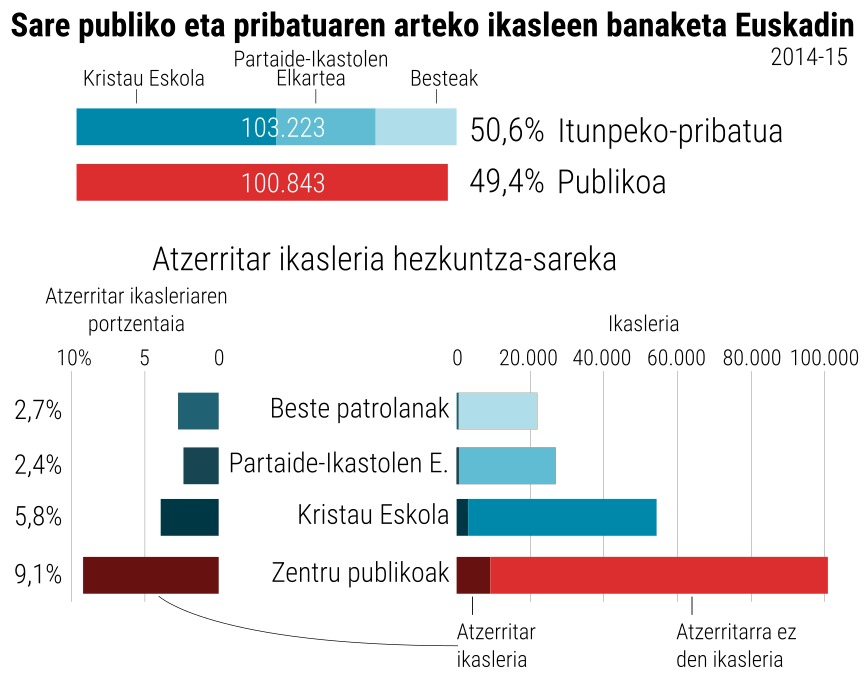
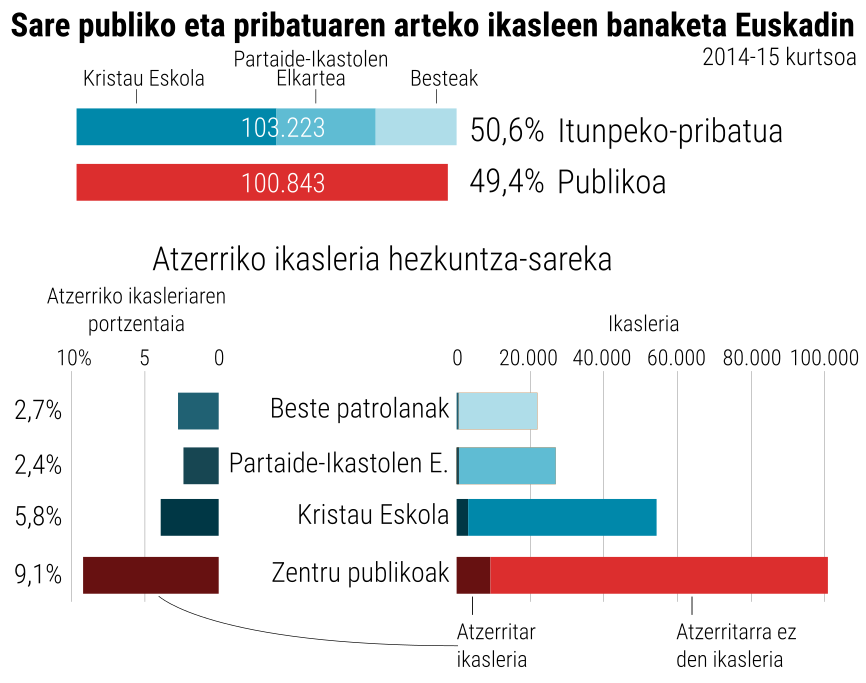
corrige typos en euskera, añade colaboradores, substituye por mapas de Carto en euskera

Changed region(s): [[0.2494, 0.369, 0.7171, 0.3997], [0.0624, 0.3997, 0.2806, 0.4612], [0.8106, 0.0615, 0.9977, 0.0922]]

diff --git a/eus.html b/eus.html
@@ -5,7 +5,7 @@
 <meta charset="UTF-8" />
 <meta http-equiv="X-UA-Compatible" content="IE=edge">
 <meta name="viewport" content="width=device-width, initial-scale=1">
-<title>Euskadiko hezkuntza sistemaren kohesio eta berdintadunaren inguruko hausnarketai</title>
+<title>Euskadiko hezkuntza sistemaren kohesio eta berdintasunaren inguruko hausnarketai</title>
 
 <!-- source code based on https://bl.ocks.org/jasondavies/1341281 -->
 <meta charset="utf-8">
@@ -24,10 +24,10 @@
 
 <!-- generic meta -->
 <meta content="Montera34" name="author" />
-<meta content="Euskadiko hezkuntza sistemaren kohesio eta berdintadunaren inguruko hausnarketai" name="description" />
+<meta content="Euskadiko hezkuntza sistemaren kohesio eta berdintasunaren inguruko hausnarketai" name="description" />
 <meta content="hezkuntza, pribatua, itunpekoa, atzerritarrak" name="keywords" />
 <!-- facebook meta -->
-<meta property="og:title" content="Euskadiko hezkuntza sistemaren kohesio eta berdintadunaren inguruko hausnarketai" />
+<meta property="og:title" content="Euskadiko hezkuntza sistemaren kohesio eta berdintasunaren inguruko hausnarketai" />
 <meta property="og:type" content="website" />
 <meta property="og:description" content="Eukadiko ikastetxe publiko eta pribatuen arteko segregazioaren hausnarketa grafikoa." />
 <meta name="og:image" content="https://lab.montera34.com/segregacionescolar/images/segregacion-publico-privada-para-ilp.png" />
@@ -36,7 +36,7 @@
 <meta name="twitter:card" content="summary_large_image" />
 <meta name="twitter:site" content="@montera34">
 <meta property="twitter:site:id" content="137677992" />
-<meta name="twitter:title" content="Euskadiko hezkuntza sistemaren kohesio eta berdintadunaren inguruko hausnarketai" />
+<meta name="twitter:title" content="Euskadiko hezkuntza sistemaren kohesio eta berdintasunaren inguruko hausnarketai" />
 <meta name="twitter:description" content="Eukadiko ikastetxe publiko eta pribatuen arteko segregazioaren hausnarketa grafikoa." />
 <meta name="twitter:creator" content="@montera34">
 <meta name="twitter:image" content="https://lab.montera34.com/segregacionescolar/images/segregacion-publico-privada-para-ilp.png" />
@@ -81,7 +81,7 @@
 	<div class="bginner container-fluid">
 		<div class="bgcontainer">
 			<header class="col-md-6">
-				<h1>Euskadiko hezkuntza sistemaren kohesio eta berdintadunaren inguruko hausnarketa</h1>
+				<h1>Euskadiko hezkuntza sistemaren kohesio eta berdintasunaren inguruko hausnarketa</h1>
 			</header>
 			<div class="clearfix"></div>
 			<div class="col-md-4">
@@ -93,7 +93,7 @@
 				<p><a class="vis-btn  btn-danger" href="https://www.ilpeskolainklusiboa.eus/">LHE sinatu</a></p>
 			</div>
 			<div class="col-md-3">
-				<p class="desc">Iradokizunik, komentariorik, proposamenik, zuzenletarik, datu gehiago al duzu?</p>
+				<p class="desc">Iradokizunik, komentariorik, proposamenik, zuzenketarik, datu gehiago al duzu?</p>
 				<p><a class="vis-btn" href="https://montera34.com/contacto">Kontaktatu</a></p>
 			</div>
 			<div class="col-md-2">
@@ -134,21 +134,21 @@
 		<div class="clearfix"></div>
 		<header id="sobre" class="row vis-head">
 			<div class="col-md-6 col-md-offset-3">
-				<h1>Euskadiko hezkuntza sistemaren kohesio eta berdintadunaren inguruko hausnarketa</h1>
+				<h1>Euskadiko hezkuntza sistemaren kohesio eta berdintsdunaren inguruko hausnarketa</h1>
 			</div>
 		</header>
 		<div class="row vis-body">
 			<div class="col-md-6 col-md-offset-3">
-				<h3>Euskal hezkuntza sisteman kohesioa eta berdintasuna hobeteko HLE</h3>
+				<h3>Euskal hezkuntza sisteman kohesioa eta berdintasuna hobetzeko HLE</h3>
 				<p>Euskadin Europako sare pribatu-itunpeko hedatuenetariko bat daukagu, ikasleriaren %50ari arreta emanez. Halere, egoera honek ez du ondoegi adierazten zer ezberdintasunak dauden sare bakoitzeko ikasleen artean.</p>
 				<p><a href="https://www.ilpeskolainklusiboa.eus/">10.000 sinadura biltzeko kanpaina</a> legebiltzarrean eztabaidatu dezaten.</p>
 				<h2>Bistaratzeen egileak</h2>
-				<p>Montera34k Euskadiko sare publiko eta pribatuko hezkuntza segregazioa ondorengo grafiko eta mapen bidez aztertzen du. Bistaratze hauek Eskola Inklusiboa Legegintza Herri Ekimenak erabiliko ditu.</p>
+				<p>Montera34k Euskadiko sare publiko eta pribatuko hezkuntza segregazioa ondorengo grafiko eta mapen bidez aztertzen du. Bistaratze hauek Eskola Inklusiboa Legegintza Herri Ekimenak erabiliko ditu. Ángel Martinez de Antoñana eta Sabin Zubiri-ren laguntzarekin.</p>
 				<h2>Datuen iturria</h2>
 				<p>Euskadiko sare publiko eta pribatu-kontzertatuko ikastetxeen arteko desberdintasuna aztertzeko, Euskadiko Eskola Kontseiluak argitaratutako <a href="http://www.consejoescolardeeuskadi.hezkuntza.net/c/document_library/get_file?uuid=ea15c830-b320-4199-8a35-424f3060533e&groupId=17937">'Hezkuntza Euskadin 2013-2015'</a> txostenak emandako datuetan oinarritu gara.
 Ikasle etorkinen eskola eremuak, eskola materialarengatik eta jantoki bekak jasotzen dituzten ikasle kopuruak hartuko ditugu haintzat sareen arteko ezberdintasunak ulertzeko.</p>
 				<p>Datuak erabili ahal izateko, PDF formatuan gordetako taulak bererabiltzea uzten zigun formatura pasa behar izan ditugu. Mapak eraikitzeko eskola eremuen inguruak sortu behar izan ditugu, Euskadiko datu base irekietan ez baitzeuden eskuragarri.</p>
-				<p>Honela, txosten honek funtzio bikoitza beteko du: ezberdintasun datuak aztertu eta beste edonork erabil ditzan libre utzi. <a href="https://github.com/montera34/segregacion/tree/master/data">Datu gordinak gordailu honetan deskarga daitezke</a>.</p>
+				<p>Honela, txosten honek funtzio bikoitza beteko du: ezberdintasun datuak aztertu eta beste edonork erabil ditzan libre utzi. <a href="https://github.com/montera34/segregacion/tree/master/data">Datu gordinak gordailu honetatik deskarga daitezke</a>.</p>
 			</div>
 		</div>
 	</section>
@@ -164,7 +164,7 @@ Ikasle etorkinen eskola eremuak, eskola materialarengatik eta jantoki bekak jaso
 			</div>
 			<div class="clearfix"></div>
 			<div class="col-md-6 col-md-offset-3">
-				<p>Espainiar estatuan nabarmentzekoa da Europako itunpeko hezkuntza sare haundienetariko bat dagoela.</p>
+				<p>Europako itunpeko hezkuntza sare handienetariko bat estatu espainarrean dagoela nabarmentzekoa da.</p>
 			</div>
 			<div class="clearfix"></div>
 			<div class="col-md-6">
@@ -184,11 +184,11 @@ Ikasle etorkinen eskola eremuak, eskola materialarengatik eta jantoki bekak jaso
 				<span class="label label-default localizacion">Espainiar testuingurua</span>
 			</div>
 			<div class="col-md-6 col-md-offset-3">
-				<h1>Espainiar testuingua: ikasle banaketa sareetan, publikoa, itunpekoa eta pribatua erkidegoka <a href="#espana">#</a></h1>
+				<h1>Espainiar testuingurua: ikasle banaketa sareetan, publikoa, itunpekoa eta pribatua erkidegoka <a href="#espana">#</a></h1>
 			</div>
 			<div class="clearfix"></div>
 			<div class="col-md-6 col-md-offset-3">
-				<p>Euskadin nabarmentzekoa da Espainiar estatuko itunpeko hezkuntza sare haundiena dagoela.</p>
+				<p>Espainako estatuko itunpeko hezkuntza sare handiena Euskadin dagoela nabarmentzekoa da.</p>
 				<iframe id="datawrapper-chart-0Og02" src="//datawrapper.dwcdn.net/0Og02/2/" scrolling="no" frameborder="0" allowtransparency="true" allowfullscreen="allowfullscreen" webkitallowfullscreen="webkitallowfullscreen" mozallowfullscreen="mozallowfullscreen" oallowfullscreen="oallowfullscreen" msallowfullscreen="msallowfullscreen" style="width: 0; min-width: 100% !important;" height="602"></iframe><script type="text/javascript">if("undefined"==typeof window.datawrapper)window.datawrapper={};window.datawrapper["0Og02"]={},window.datawrapper["0Og02"].embedDeltas={"100":770,"200":686,"300":630,"400":602,"500":602,"600":602,"700":574,"800":574,"900":574,"1000":574},window.datawrapper["0Og02"].iframe=document.getElementById("datawrapper-chart-0Og02"),window.datawrapper["0Og02"].iframe.style.height=window.datawrapper["0Og02"].embedDeltas[Math.min(1e3,Math.max(100*Math.floor(window.datawrapper["0Og02"].iframe.offsetWidth/100),100))]+"px",window.addEventListener("message",function(a){if("undefined"!=typeof a.data["datawrapper-height"])for(var b in a.data["datawrapper-height"])if("0Og02"==b)window.datawrapper["0Og02"].iframe.style.height=a.data["datawrapper-height"][b]+"px"});</script>
 					<p>Espainiako hezkuntza sareak. Datuen iturria: Datos y cifras 2016. Hezkuntza Ministerioa. <a href="https://www.mecd.gob.es/servicios-al-ciudadano-mecd/dms/mecd/servicios-al-ciudadano-mecd/estadisticas/educacion/indicadores-publicaciones-sintesis/datos-cifras/Datosycifras1617esp.pdf">2017/18 urtera eguneratutako datuak</a>.</p>
 			</div>
@@ -208,7 +208,7 @@ Ikasle etorkinen eskola eremuak, eskola materialarengatik eta jantoki bekak jaso
 				<p>Euskadiko ikasleria sare publikoan (100.843) eta pribatua-itunpekoan (103.223) erdi bana banatzen dira. Azken honek Kristau Eskolak, ikastetxe erlijioso kristauen patronalak, 54.318 ikaslek osatutakoa, eta Partaide-Ikastolen Elkarteak, ikastolen elkargoak, 26.939 ikasle dituena, osatzen dute; gainontzekoa, beste patronalek jasotzen dute (21.966).</p>
 				<figure>
 					<a href="images/segregacion-redes-educativas-euskadi-barras_eu.png"><img class="img-responsive" src="images/segregacion-redes-educativas-euskadi-barras_eu.png" /></a>
-					<figcaption>Oinarrizko hezkuntzako (Lehen hezkuntza eta DBH) atzerriko ikasleen ehunekoa hezkuntza sareen arabera. 2014-15 kurtsoa.</figcaption>
+					<figcaption>Oinarrizko Hezkuntzako (Lehen hezkuntza eta DBH) atzerriko ikasleen ehunekoa hezkuntza sareen arabera. 2014-15 kurtsoa.</figcaption>
 				</figure>
 				<a class="btn btn-default" role="button" data-toggle="collapse" href="#tableredes" aria-expanded="false" aria-controls="collapseExample">
 					Ikusi datu guztiak dauzkan taula <span class="glyphicon glyphicon-triangle-bottom" aria-hidden="true"></span>
@@ -555,8 +555,8 @@ total alumnado
 			</div>
 			<div class="clearfix"></div>
 			<div class="col-md-12">
-				<iframe width="100%" height="820" frameborder="0" src="https://numeroteca.carto.com/builder/2389a047-c81e-4a9e-adec-7df4367a7982/embed" allowfullscreen webkitallowfullscreen mozallowfullscreen oallowfullscreen msallowfullscreen></iframe>
-				<p><a href="https://numeroteca.carto.com/builder/2389a047-c81e-4a9e-adec-7df4367a7982/embed">Ikusi mapa pantaila osorik.</a></p>
+				<iframe width="100%" height="820" frameborder="0" src="https://numeroteca.carto.com/builder/1392c302-1961-498a-8649-d7e89a346079/embed" allowfullscreen webkitallowfullscreen mozallowfullscreen oallowfullscreen msallowfullscreen></iframe>
+				<p><a href="https://numeroteca.carto.com/builder/1392c302-1961-498a-8649-d7e89a346079/embed">Ikusi mapa pantaila osorik.</a></p>
 			</div>
 			<div class="clearfix"></div>
 			<div class="col-md-6 col-md-offset-3">
@@ -584,7 +584,8 @@ total alumnado
 			</div>
 			<div class="clearfix"></div>
 			<div class="col-md-12">
-				<iframe width="100%" height="820" frameborder="0" src="https://numeroteca.carto.com/builder/593cfa1c-2b9b-4cf1-b3fb-b4199684533f/embed" allowfullscreen webkitallowfullscreen mozallowfullscreen oallowfullscreen msallowfullscreen></iframe>
+				<iframe width="100%" height="820" frameborder="0" src="https://numeroteca.carto.com/builder/6010d557-f917-4a10-bb32-829b1ae8546c/embed" allowfullscreen webkitallowfullscreen mozallowfullscreen oallowfullscreen msallowfullscreen></iframe>
+				<p><a href="https://numeroteca.carto.com/builder/6010d557-f917-4a10-bb32-829b1ae8546c/embed">Ikusi mapa pantaila osorik.</a></p>
 			</div>
 			<div class="clearfix"></div>
 			<div class="col-md-6 col-md-offset-3">

diff --git a/index.html b/index.html
@@ -143,7 +143,7 @@
 				<h3>ILP Eskola Inklusiboa para mejorar la cohesión y la igualdad en el sistema educativo</h3>
 				<p><a href="https://www.ilpeskolainklusiboa.eus/es/">Campaña de recogida de 10.000 firmas</a> para hacer posible que llegue al parlamento vasco.</p>
 				<h2>Autoría de las visualizaciones</h2>
-				<p>Montera34 analiza mediante los siguientes gráficos y mapas la segregación educativa en Euskadi en las redes pública y privada. Estas visualizaciones serán usadas por la Iniciativa legislativa popular Eskola Inklusiboa.</p>
+				<p>Montera34 analiza mediante los siguientes gráficos y mapas la segregación educativa en Euskadi en las redes pública y privada. Estas visualizaciones serán usadas por la Iniciativa legislativa popular Eskola Inklusiboa. Han contado con la colaboración de Ángel Martinez de Antoñana y Sabin Zubiri.</p>
 				<h2>Fuente de los datos</h2>
 				<p>Para estudiar la desigualdad entre las redes pública y privado-concertada de centros educativos en Euskadi hemos partido de los datos contenidos en el informe <a href="http://www.consejoescolardeeuskadi.hezkuntza.net/c/document_library/get_file?uuid=ea15c830-b320-4199-8a35-424f3060533e&groupId=17937">La educación en Euskadi 2013-2015</a> del Consejo Escolar de Euskadi. Hemos tomado los indicadores por zonas escolares de alumnado extranjero, alumnado becario de material escolar y de comedor para que nos ayuden a entender las diferencias entre las redes.</p>
 				<p>Para utilizar los datos hemos tenido que pasar a formato reutilizable las tablas contenidas en PDF. Para construir los mapas hemos tenido que crear los contornos de las zonas escolares, que no estaban disponibles en ninguna de las bases de datos abiertas en Euskadi.</p>
@@ -588,7 +588,7 @@ total alumnado
 			</div>
 			<div class="clearfix"></div>
 			<div class="col-md-6 col-md-offset-3">
-				<p>Las datos por zonas escolares (los únicos disponibles) ocultan situaciones variadas en cada uno de los centros escolares, pero predomina un porcentaje mayor de alumnado becado en la red pública, aunque existen excepciones. Además, las zonas escolares de Montaña alavesa, Igorre y Basurto-Zorroza no tienen oferta privada, por lo que no es posible realizar la comparativa. Pasa el cursor para ver la información.</p>
+				<p>Los datos por zonas escolares (los únicos disponibles) ocultan situaciones variadas en cada uno de los centros escolares, pero predomina un porcentaje mayor de alumnado becado en la red pública, aunque existen excepciones. Además, las zonas escolares de Montaña alavesa, Igorre y Basurto-Zorroza no tienen oferta privada, por lo que no es posible realizar la comparativa. Pasa el cursor para ver la información.</p>
 			</div>
 			<div class="clearfix"></div>
 			<div class="col-md-6 col-md-offset-3">
@@ -619,7 +619,7 @@ total alumnado
 			</div>
 			<div class="clearfix"></div>
 			<div class="col-md-6 col-md-offset-3">
-				<p>Las datos por zonas escolares (los únicos disponibles) ocultan situaciones variadas en cada uno de los centros escolares, pero predomina un porcentaje mayor de alumnado becado en la red pública, aunque existen excepciones. Además, las zonas escolares de Montaña alavesa, Igorre y Basurto-Zorroza no tienen oferta privada, por lo que no es posible realizar la comparativa. Pasa el cursor para ver la información.</p>
+				<p>Los datos por zonas escolares (los únicos disponibles) ocultan situaciones variadas en cada uno de los centros escolares, pero predomina un porcentaje mayor de alumnado becado en la red pública, aunque existen excepciones. Además, las zonas escolares de Montaña alavesa, Igorre y Basurto-Zorroza no tienen oferta privada, por lo que no es posible realizar la comparativa. Pasa el cursor para ver la información.</p>
 			</div>
 			<div class="clearfix"></div>
 			<div class="col-md-6 col-md-offset-3">
